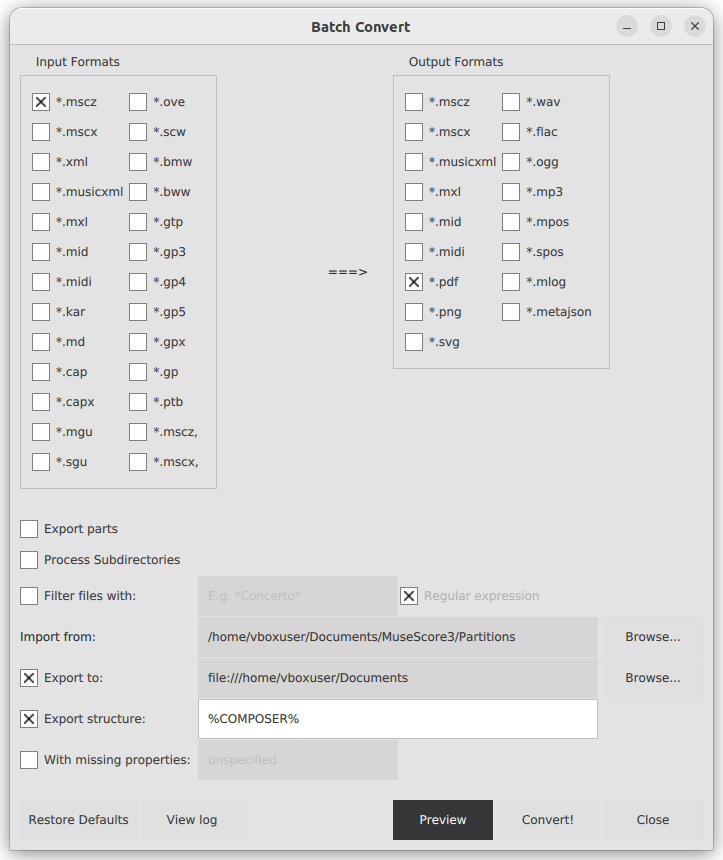
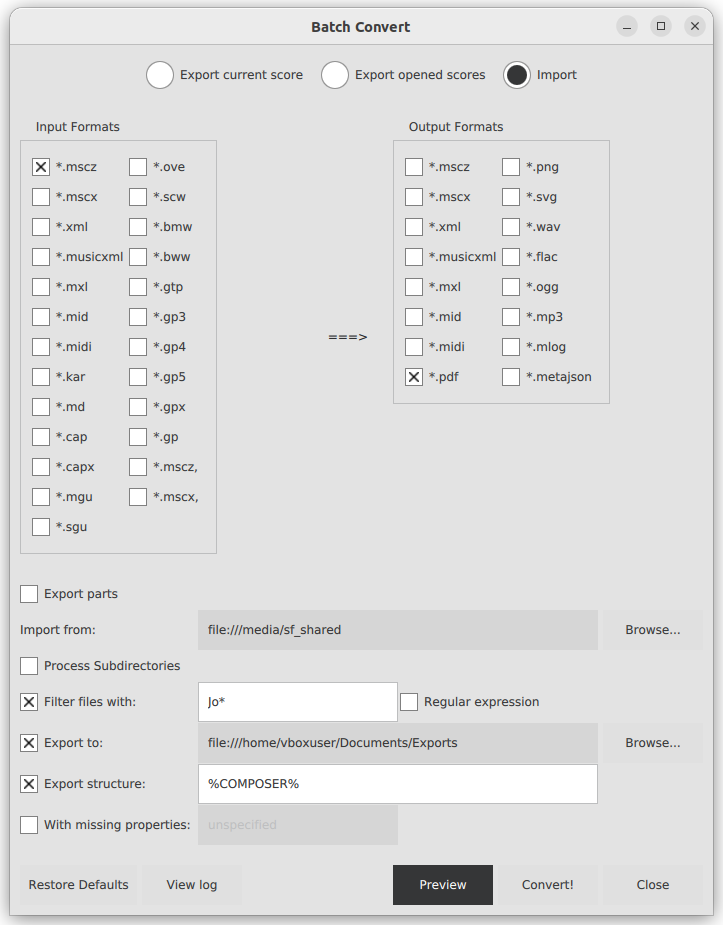
Missing last commit Merge remote-tracking branch 'source/master' into MergeSource
# Conflicts:
#	Readme.md
#	batch_convert.qml

diff --git a/batch_convert/batch_convert.qml b/batch_convert/batch_convert.qml
@@ -11,18 +11,18 @@ import FileIO 3.0
 
 /**********************
 /*  2.0.1: Initial version with new UI
-/*  2.1.0: Use Composer if Arranger, Lyricist, Copywriter are missing
-/*  2.1.0: Error when dealing with parts of an already opened score.
-/*  2.1.0: The score name was added twice to the excported file when exporting parts.
-/*  2.1.0: Parts of which name starts with a "." will not be exported.
-/*  2.1.0: Unnecessary folders were created when exporting parts. 
-/*  2.1.0: Port to MuseScore 4.0 
-/*  2.1.0: Export current score 
-/*  2.1.0: Creation of folders in Windows with name without spaces was not working 
+/*  4.1.0: Use Composer if Arranger, Lyricist, Copywriter are missing
+/*  4.1.0: Error when dealing with parts of an already opened score.
+/*  4.1.0: The score name was added twice to the excported file when exporting parts.
+/*  4.1.0: Parts of which name starts with a "." will not be exported.
+/*  4.1.0: Unnecessary folders were created when exporting parts. 
+/*  4.1.0: Port to MuseScore 4.0 
+/*  4.1.0: Export current score 
+/*  4.1.0: Creation of folders in Windows with name without spaces was not working 
 /**********************************************/
 MuseScore {
     menuPath: "Plugins." + qsTr("Batch Convert")
-    version: "2.1.0"
+    version: "4.1.0"
     // currently not working in MuseScore 4, so an open score is required regardless of this setting
     requiresScore: false
     description: qsTr("This plugin converts multiple files from various formats"
@@ -32,7 +32,7 @@ MuseScore {
     Component.onCompleted : {
         if (mscoreMajorVersion >= 4) {
             batchConvert.thumbnailName = "batch_convert_thumbnail.png";
-            batchConvert.categoryCode: "batch-processing";
+            batchConvert.categoryCode = "batch-processing";
         }
     }
 

diff --git a/Readme.md b/Readme.md
@@ -1,19 +1,28 @@
 
-This Plugin for MuseScore will go through a specified folder and in its default settings exports PDF versions of all ".mscz" files for which no up-to-date version already exists. To use the plugin, you must first install it according to the instructions in [the 1.x Handbook](http://musescore.org/node/10129), the [2.x Handbook](http://musescore.org/node/36051) or the [3.x Handbook](http://musescore.org/node/278601), then:
 <p align="center"><img src="/batch_convert/batch_convert_thumbnail.png" Alt="logo" width="300" /></p>
+This Plugin for MuseScore will go through a specified folder and in its default settings exports PDF versions of all ".mscz" files for which no up-to-date version already exists. To use the plugin, you must first install it according to the instructions in [the 1.x Handbook](http://musescore.org/node/10129), the [2.x Handbook](http://musescore.org/node/36051) or the [3.x Handbook](http://musescore.org/node/278601), then:
 
 
-<img src="/demo/batch-convert.png" alt="Screenshot" width="500"/>
+<p align="center"><img src="/demo/batch-convert.png" alt="Screenshot" width="500"/></p>
 
-## What's new in 3.6 ?
-  This version is an yet unofficial extension of the [Batch Convert](https://musescore.org/fr/project/batch-convert) plugin.
 
+## What's new in 4.1 ?
+  
 It provides the following new features:
 * Filter the files to convert, whether by a Regular Expression or traditional wildcard filtering. E.g. Use "Quartet*" to only convert the files starting by "quartet";
 * New workflow for selecting the import and export folders : select them only if you need to change them and no longer at every conversion;
 * Export the files in a folder structure based of the file properties. E.g. export all John Coltrane scores in a "John Coltrane" subfolder automatically. More on this further on.
 * A Preview button to simulate how the conversion will be executed before effective execution. Handy when building the filtering options and the folder structure.
+* Possibility to export the current score or the opened scores
 
+## Usage
+1. Select "Batch Convert" (formerly "Batch Export") from the Plugins menu
+3. Select the in- and output format(s), or just use the default (\*.mscz to \*.pdf)
+4. Decide whether or nor you want to also work on subdirectories of the one you'll select in the next step and check/uncheck the corresponding box
+5. Browse to the folder containing the files you wish to export
+6. Select "Convert!"
+7. Confirm the dialog box that shows which files have been converted
+	
 ### More on the _Export structure_ feature
 You have define how to build the folder structure.
 Accepted characters and keywords are:
@@ -38,31 +47,16 @@ What if a file does not provide a value for a properties used in the export stru
 Example :
 In order to export all the scores in a folder named from its composer property (e.g. export all John Coltrane scores in a "John Coltrane" subfolder), use "%COMPOSER%" as folder structure.
 
-### Limitations and issues
-* This plugin is in the BETA state. It is tested but may still contains bugs.
-* This new version relies on platform specific code for creating the folders of the folder structure. This has been only tested on **Windows**.
-* Known issue: the plugin fails at creating a folder when a required file properties is missing. So the plugin is able to create a "export/john coltrane/" folder but not a "export/unspecified/" folder.
 
-## Important
-NO WARRANTY THE PROGRAM IS PROVIDED "AS IS" WITHOUT WARRANTY OF ANY KIND...
 
-------------------------------------
-## (Previous documentation)
-1. Select "Batch Convert" (formerly "Batch Export") from the Plugins menu
-3. Select the in- and output format(s), or just use the default (\*.mscz to \*.pdf)
-4. Decide whether or nor you want to also work on subdirectories of the one you'll select in the next step and check/uncheck the corresponding box
-5. Browse to the folder containing the files you wish to export
-6. Select "Choose"
-7. Confirm the dialog box that shows which files have been converted
+### A couple of notes to be aware of
 
-A couple of notes to be aware of:
-
-- You may need to have a score already open in order for the Plugins menu to be active. Fixed in MuseScore 2.0+
+- You may need to have a score already open in order for the Plugins menu to be active. Fixed in MuseScore 2.0+ (and resurfaced in 4.0)
 - In MuseScore 2.0.1+ make sure you don't have a score open, that you want the plugin to process, because it won't be able to load it then.
 - The scores for which files were exported may be left open in tabs. If so, you'd need to close them manually. Fixed with MuseScore 1.2+
 - These open tabs will be labeled "untitled". Fixed in MuseScore 2.0+ and not an issue anymore with MuseScore 1.2+, see above
 - The 2.x version of this plugin needs at least 2.0.1
-- The 3.x version of this plugin needs at least 3.0.2
+- The 3.x version of this plugin needs at least 3.0.2 (it shows the UI in 4.x, but doesn't convert anything yet)
 - If you're on macOS and the file dialog for step 4 above does not show up, try using the Mac version of the plugin which is in the branch 'mac' (for 3.0, actually that version seems to run fine in Windows too) or mac-2.x (for 2.x).
 - All files processed by the plugin for MuseScore 2.0+ will be listed in the 'Recent File' menu.
 
@@ -71,3 +65,7 @@ These issues are fixed with the above mentioned versions, and without re-install
 This plugin now comes with translations of the dialogs into German, French (thanks to lasconic and JLWALTENER), Spanish (thanks to jorgk), Italian (thanks to Shoichi) and Simplified Chinese (thanks to David Copperfield), for all other language settings in MuseScore, it remains English. More translations are welcome, just contact us for including them.
 
 The idea for this plugin stems from a [question in the forum](https://musescore.org/node/12452). See also [this discussion about the 2.0 version](https://musescore.org/node/55616)
+		  
+
+## Important
+NO WARRANTY THE PROGRAM IS PROVIDED "AS IS" WITHOUT WARRANTY OF ANY KIND...
